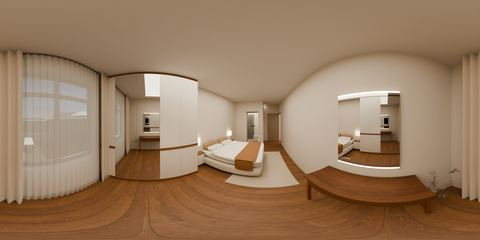
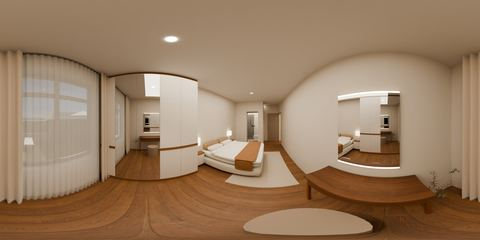
4 no turu: tavan spotları düzeltildi (aynalama hatası); örnek daire notu Co-Authored-By: Claude Opus 5.5 <noreply@anthropic.com> Claude-Session: https://claude.ai/code/session_01NyococpTC3WyBaqAgkJsvA

Changed region(s): [[0.5, 0.8458, 0.875, 1.0], [0.3125, 0.1458, 0.375, 0.2042], [0.3125, 0.5833, 0.3438, 0.6417]]

diff --git a/index.html b/index.html
@@ -675,7 +675,7 @@ function daireSec(kod,kaydir){
       var T={GB:['satilik/tur/index.html',6],GD:['satilik/tur_d4/index.html',4],GO:['satilik/tur_d5/index.html',5]}[d.kod];
       if(!T||KATLAR[aktifKat].noKat!=null)return '<div style="font-size:13px;color:#8a8076;margin:6px 0 2px">Bu daire tipinin 360° gezintisi hazırlanıyor.</div>';
       return '<a class="btn ana" style="background:#8a6f47" href="'+T[0]+'" target="_blank" rel="noopener">'+(d.no===T[1]?'Bu daireyi 360° gez':'Bu daire tipini 360° gez')+'</a>'+
-        (d.no===T[1]?'':'<div style="font-size:13px;color:#8a8076;margin:6px 0 2px">Gezinti aynı plandaki '+T[1]+' no’lu daireden (bahçe katı); bu dairede bahçe yerine balkon/manzara farklıdır.</div>');
+        (d.no===T[1]?'':'<div style="font-size:13px;color:#8a8076;margin:6px 0 2px">Gezinti aynı plandaki '+T[1]+' no’lu örnek daireden (bahçe katı); iç düzen aynı, manzara ve dış alan (bahçe/balkon) kata göre farklıdır.</div>');
     })()+
     '<button class="btn ik" id="planIndir">Kat planını indir</button>'+
     '<p class="dip">Alanlar mimari ön projeden alınmıştır; uygulama projesinde küçük değişiklikler olabilir. '+(V.ornekVeri?'Fiyat ve satış durumu örnektir.':'')+'</p>';
